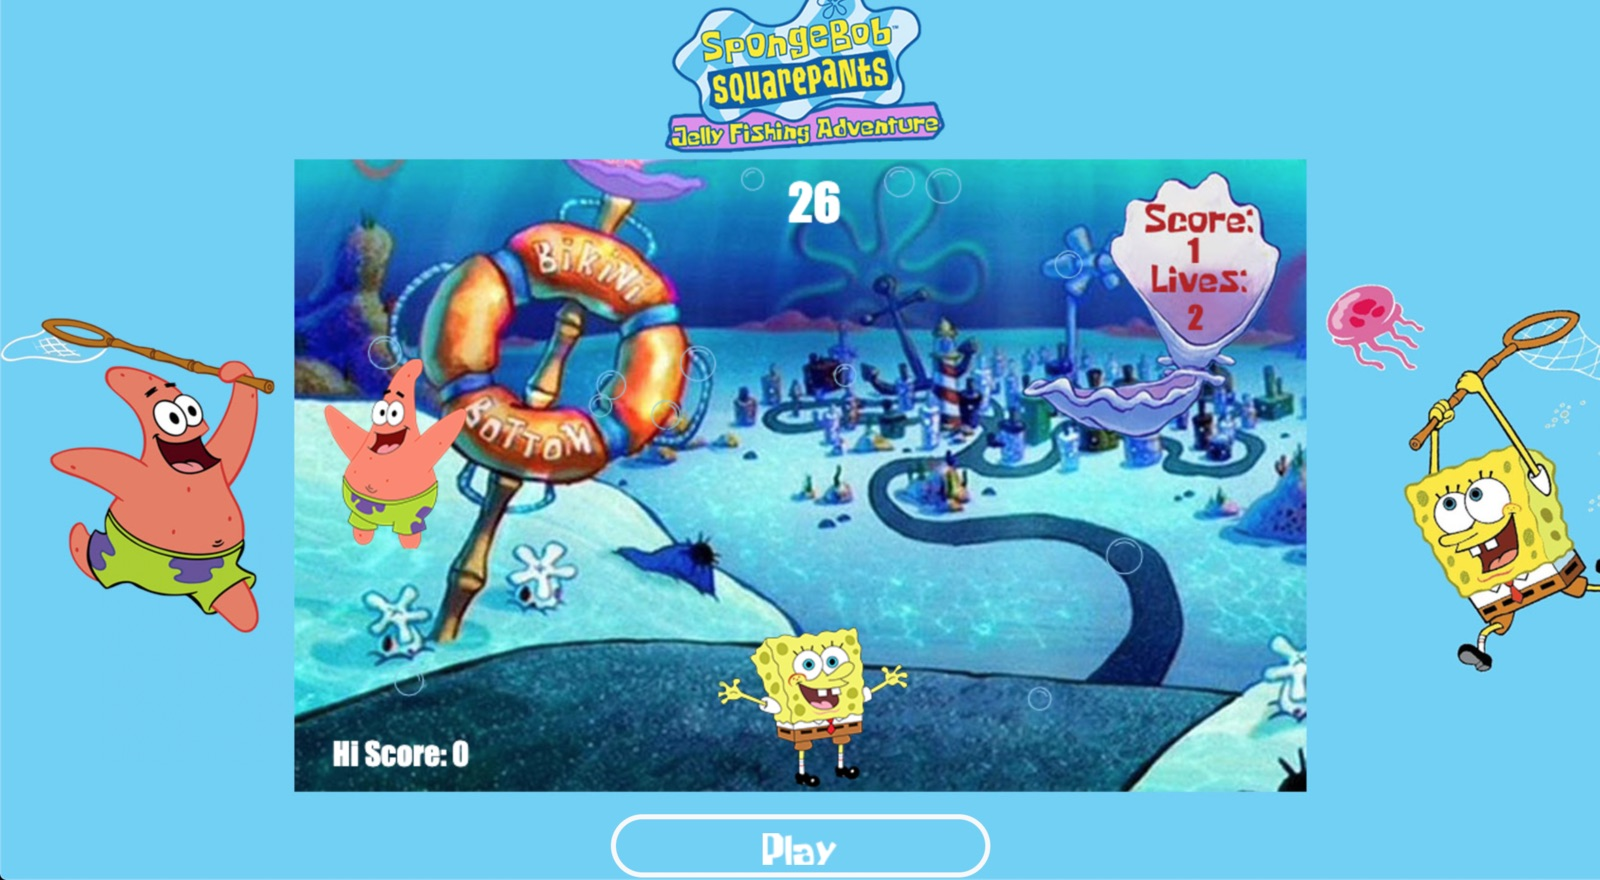
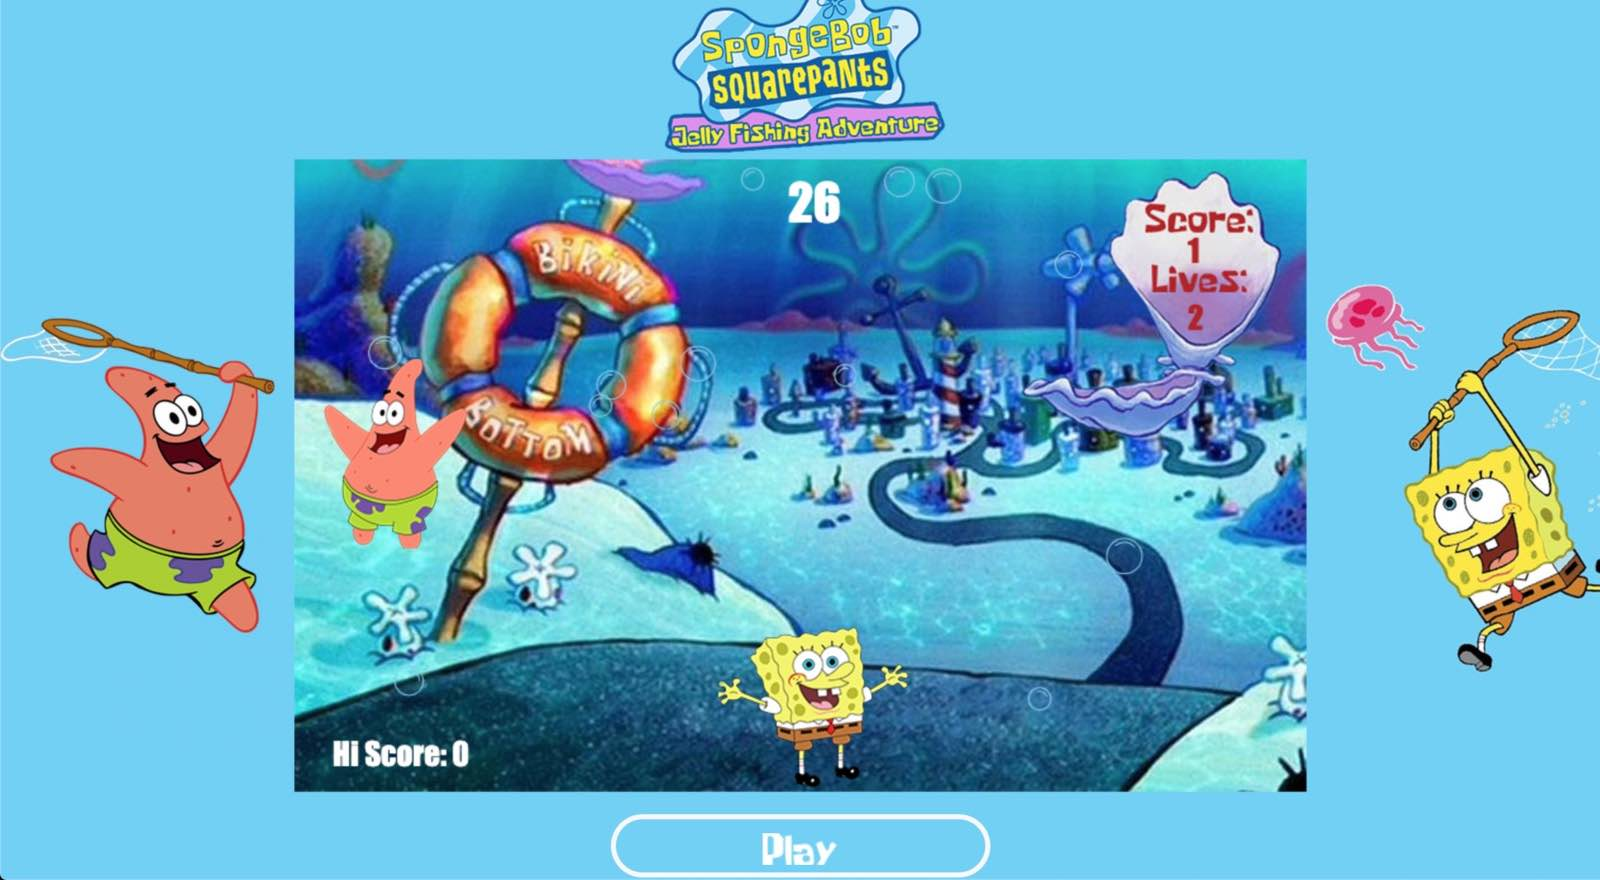
changed photo resolutions

diff --git a/style.css b/style.css
@@ -98,18 +98,19 @@ body {
     background-size: cover;
     font-family: "Cormorant Garamond", Georgia, 'Times New Roman', Times, serif;
     color: #eeeeee !important;
+    width: 100%;
 }
 
 video{
     min-width: 100vw;
     height: 110vh;
-    margin: 0;
+    margin: 0 auto;
     padding: 0;
     position: fixed;
     z-index: -2;
     overflow: hidden;
-    align-items: center;
-    justify-content: center;    
+    margin: 0 auto;
+    display: block;  
     background-color: black;
 }
 
